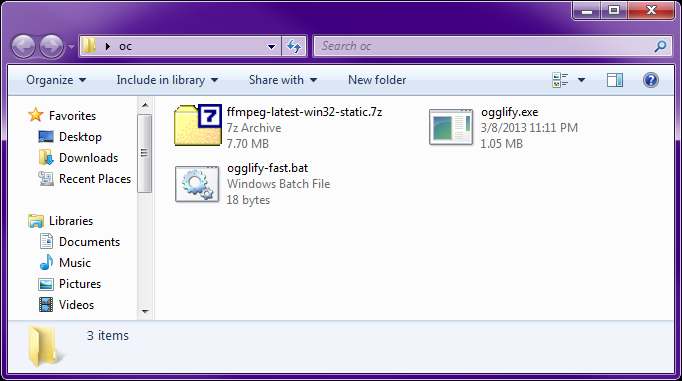
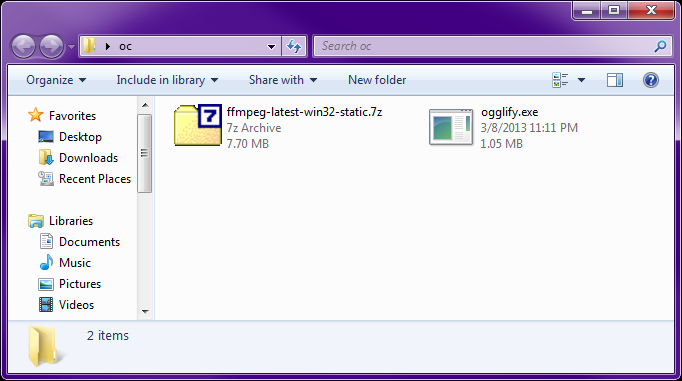
guide-update

Changed region(s): [[0.2463, 0.4331, 0.4927, 0.5486], [0.1232, 0.8661, 0.154, 0.895]]

diff --git a/index.html b/index.html
@@ -3,7 +3,7 @@
 <head>
 	<meta charset="UTF-8" />
 	<meta name="description" content="Youtube, Vimeo, Soundcloud, and Sounds playback" />
-	<meta name="keywords" content="4chan,sound,sounds,media,player,youtube,soundcloud,vimeo,embed,embedding,stego,steganography,4cs,dnsev,userscript,greasemonkey,tampermonkey,firefox,chrome" />
+	<meta name="keywords" content="4chan,sound,sounds,media,player,youtube,soundcloud,vimeo,embed,embedding,stego,steganography,4cs,dnsev,userscript,greasemonkey,tampermonkey,firefox,chrome,sound player,4chan sound player,media player,4chan media player" />
 	<meta name="author" content="dnsev" />
 	<link rel="shortcut icon" href="favicon.gif" />
 	<link rel="stylesheet" href="style.css" />
@@ -528,89 +528,102 @@
 	<div class="Content ContentWidth" id="content_oc">
 		<div class="ContentHeader"><span class="ContentHeaderTitle">Original Content</span>:</div>
 		<div class="ContentBody">
-			<p>So you want to create original content?<br />
-			Use these steps and images as a guide:</p>
+			<p>So you want to create original content? Here's a guide:</p>
+			<p class="AsteriskMessage"><i>Be sure to click the </i><a class="InternalLink" href="#oc?activate=image_1">image</a><i> links that appear on the right if you get lost</i></p>
 
 			<div class="ContentHeader" multi_id="sounds_image"><span class="HoverShowControl"><span class="ContentHeaderTitle">Creating the sounds-image</span>:<span class="HoverShow"> <a class="InternalLink" href="#.?scroll=sounds_image">Hardlink</a></span></span></div>
 			<div class="ContentBody">
 			<ol class="SpacedList">
-				<li class="InstructionsImageLinkContainer">
-					<a class="ImageLink InstructionsImageLink" href="image_oc_guide0.png" href_update="#oc?activate=image_1" target="_blank" multi_id="image_1">image</a><div class="ImageDescription">
-						<ul>
-							<li>All 3 files downloaded into the folder</li>
-							<li>ffmpeg.exe hasn't been extracted yet</li>
+				<li multi_id="step_1">
+					<div class="GuideLink InstructionsImageLinkContainer" href="#.?activate=image_1">
+						<a class="ImageLink InstructionsImageLink" href="image_oc_guide0.png" href_update="#oc?activate=image_1" target="_blank" multi_id="image_1">image</a><div class="ImageDescription">
+							<ul>
+								<li>All 3 files downloaded into the folder</li>
+								<li>ffmpeg.exe hasn't been extracted yet</li>
+							</ul>
+						</div>
+
+						<p>Download the <a class="InternalLink" href="#ogglify">ogglify</a> files into a new folder:</p>
+						<ul class="ContentInstructionListUnordered ContentInstructionListSmall">
+							<li><a class="Link" href="https://github.com/dnsev/4cs/raw/master/ogglify/ogglify.exe">ogglify.exe</a></li>
+							<li><a class="Link" href="http://ffmpeg.zeranoe.com/builds/win32/static/ffmpeg-latest-win32-static.7z">ffmpeg.exe</a><span class="DownloadLinkExtension"> from <i>/bin/ffmpeg.exe</i></span></li>
 						</ul>
+
+						<div class="InstructionsImageLinkClear"></div>
 					</div>
-
-					Download the <a class="InternalLink" href="#ogglify">ogglify</a> files into a new folder:
-					<ul class="ContentInstructionListUnordered ContentInstructionListSmall">
-						<li><a href="https://github.com/dnsev/4cs/raw/master/ogglify/ogglify.exe">ogglify.exe</a></li>
-						<li><a href="https://github.com/dnsev/4cs/raw/master/ogglify/ogglify-fast.bat">ogglify-fast.bat</a></li>
-						<li><a href="http://ffmpeg.zeranoe.com/builds/win32/static/ffmpeg-latest-win32-static.7z">ffmpeg.exe</a><span class="DownloadLinkExtension"> from <i>/bin/ffmpeg.exe</i></span></li>
-					</ul>
-
-					<div class="InstructionsImageLinkClear"></div>
 				</li>
-				<li class="InstructionsImageLinkContainer">
-					<a class="ImageLink InstructionsImageLink" href="image_oc_guide1.png" href_update="#oc?activate=image_2" target="_blank" multi_id="image_2">image</a><div class="ImageDescription">
-						<ul>
-							<li>ffmpeg.exe has now been extracted</li>
-							<li>If you don't have a program to extract from a .7z, visit <a href="http://www.7-zip.org/" target="_blank">7-zip.org</a></li>
-						</ul>
+				<li multi_id="step_2">
+					<div class="GuideLink InstructionsImageLinkContainer" href="#.?activate=image_2">
+						<a class="ImageLink InstructionsImageLink" href="image_oc_guide1.png" href_update="#oc?activate=image_2" target="_blank" multi_id="image_2">image</a><div class="ImageDescription">
+							<ul>
+								<li>ffmpeg.exe has now been extracted</li>
+								<li>You can delete the .7z file after you are done</li>
+								<li>If you don't have a program to extract from a .7z, visit <a href="http://www.7-zip.org/" target="_blank">7-zip.org</a></li>
+							</ul>
+						</div>
+
+						<p>Make sure you extract <a class="Link" href="http://ffmpeg.zeranoe.com/builds/win32/static/ffmpeg-latest-win32-static.7z">ffmpeg.exe</a> from the .7z archive into your folder</p>
+
+						<div class="InstructionsImageLinkClear"></div>
 					</div>
-
-					<p>Make sure you extract <a>ffmpeg.exe</a> from the .7z archive into your folder</p>
-
-					<div class="InstructionsImageLinkClear"></div>
 				</li>
-				<li class="InstructionsImageLinkContainer">
-					<a class="ImageLink InstructionsImageLink" href="image_oc_guide2.png" href_update="#oc?activate=image_3" target="_blank" multi_id="image_3">image</a><div class="ImageDescription">
-						<ul>
-							<li>Image file and sound file have been added to the folder</li>
-							<li>Sound files can be in .mp3, .flac, and other file types ffmpeg supports</li>
-						</ul>
+				<li multi_id="step_3">
+					<div class="GuideLink InstructionsImageLinkContainer" href="#.?activate=image_3">
+						<a class="ImageLink InstructionsImageLink" href="image_oc_guide2.png" href_update="#oc?activate=image_3" target="_blank" multi_id="image_3">image</a><div class="ImageDescription">
+							<ul>
+								<li>Image file and sound file have been added to the folder</li>
+								<li>Sound files can be in .mp3, .flac, and other file types ffmpeg supports</li>
+							</ul>
+						</div>
+
+						<p>Put your image and any sound files you want to embed inside the folder</p>
+
+						<div class="InstructionsImageLinkClear"></div>
 					</div>
-
-					<div>Put your image and any sound files you want to embed inside the folder</div>
-
-					<div class="InstructionsImageLinkClear"></div>
 				</li>
-				<li class="InstructionsImageLinkContainer">
-					<a class="ImageLink InstructionsImageLink" href="image_oc_guide3.png" href_update="#oc?activate=image_4" target="_blank" multi_id="image_4">image</a><div class="ImageDescription">
-						<ul>
-							<li>Dragging the image and sound onto <i>ogglify.exe</i></li>
-							<li>If you don't mind not getting the best sound quality, you can drag them onto <i>ogglify-fast.bat</i> instead</li>
-							<li>Also, the file name of your sound files will be used as the sound tag</li>
-						</ul>
+				<li multi_id="step_4">
+					<div class="GuideLink InstructionsImageLinkContainer" href="#.?activate=image_4">
+						<a class="ImageLink InstructionsImageLink" href="image_oc_guide3.png" href_update="#oc?activate=image_4" target="_blank" multi_id="image_4">image</a><div class="ImageDescription">
+							<ul>
+								<li>Dragging the image and sound onto <i>ogglify.exe</i></li>
+								<li>If you don't mind not getting the best sound quality, you can drag them onto <i>ogglify-fast.bat</i> instead</li>
+								<li>Also, the file name of your sound files will be used as the sound tag</li>
+							</ul>
+						</div>
+
+						<p>Select the image and sound file(s) and drag them onto <a class="Link" href="https://github.com/dnsev/4cs/raw/master/ogglify/ogglify.exe">ogglify.exe</a></p>
+
+						<div class="InstructionsImageLinkClear"></div>
 					</div>
-
-					<p>Select the image and sound file(s) and drag them onto <a class="InternalLink" href="#ogglify?scroll=setup">ogglify.exe</a></p>
-
-					<div class="InstructionsImageLinkClear"></div>
 				</li>
-				<li class="InstructionsImageLinkContainer">
-					<a class="ImageLink InstructionsImageLink" href="image_oc_guide4.png" href_update="#oc?activate=image_5" target="_blank" multi_id="image_5">image</a><div class="ImageDescription">
-						<ul>
-							<li>The command prompt shown working its magic</li>
-							<li>Typically takes a few seconds based on how big your sound is</li>
-						</ul>
+				<li multi_id="step_5">
+					<div class="GuideLink InstructionsImageLinkContainer" href="#.?activate=image_5">
+						<a class="ImageLink InstructionsImageLink" href="image_oc_guide4.png" href_update="#oc?activate=image_5" target="_blank" multi_id="image_5">image</a><div class="ImageDescription">
+							<ul>
+								<li>The command prompt shown working its magic</li>
+								<li>Typically takes a few seconds based on how big your sound is</li>
+								<li>The window should automatically open, run, and close; <b>there is no GUI</b></li>
+							</ul>
+						</div>
+
+						<p>A command prompt window should appear; sit back and let the magic happen</p>
+
+						<div class="InstructionsImageLinkClear"></div>
 					</div>
-
-					A command prompt window should appear; sit back and let the magic happen
-
-					<div class="InstructionsImageLinkClear"></div>
 				</li>
-				<li class="InstructionsImageLinkContainer">
-					<a class="ImageLink InstructionsImageLink" href="image_oc_guide5.png" href_update="#oc?activate=image_6" target="_blank" multi_id="image_6">image</a><div class="ImageDescription">
-						<ul>
-							<li>A new file has been created</li>
-							<li>Note how it is much larger than the original</li>
-						</ul>
+				<li multi_id="step_6">
+					<div class="GuideLink InstructionsImageLinkContainer" href="#.?activate=image_6">
+						<a class="ImageLink InstructionsImageLink" href="image_oc_guide5.png" href_update="#oc?activate=image_6" target="_blank" multi_id="image_6">image</a><div class="ImageDescription">
+							<ul>
+								<li>A new file has been created</li>
+								<li>Note how it is much larger than the original</li>
+							</ul>
+						</div>
+
+						<p>After the command prompt closes, you should have a new file named <a><i>something</i>-embed<i>.ext</i></a></p>
+
+						<div class="InstructionsImageLinkClear"></div>
 					</div>
-
-					After the command prompt closes, you should have a new file named "<i>something</i>-embed<i>.png</i>"
-
-					<div class="InstructionsImageLinkClear"></div>
 				</li>
 			</ol>
 			</div>
@@ -618,48 +631,92 @@
 			<div class="ContentHeader" multi_id="posting"><span class="HoverShowControl"><span class="ContentHeaderTitle">Posting your image</span>:<span class="HoverShow"> <a class="InternalLink" href="#.?scroll=posting">Hardlink</a></span></span></div>
 			<div class="ContentBody">
 			<ol class="SpacedList" start="7">
-				<li class="InstructionsImageLinkContainer">
-					<a class="ImageLink InstructionsImageLink" href="image_oc_guide6.png" href_update="#oc?activate=image_7" target="_blank" multi_id="image_7">image</a><div class="ImageDescription">
-						<ul>
-							<li>The quick reply box (using 4chan x) shown with the uploader panel open</li>
-							<li>If you haven't disabled it in the settings, the uploader panel should automatically open</li>
-							<li>However, it shouldn't matter if you use it or not</li>
-						</ul>
+				<li multi_id="step_7">
+					<div class="GuideLink InstructionsImageLinkContainer" href="#.?activate=image_7">
+						<a class="ImageLink InstructionsImageLink" href="image_oc_guide6.png" href_update="#oc?activate=image_7" target="_blank" multi_id="image_7">image</a><div class="ImageDescription">
+							<ul>
+								<li>The quick reply box (using 4chan x) shown with the uploader panel open</li>
+								<li>If you haven't disabled it in the settings, the uploader panel should automatically open</li>
+								<li>However, it shouldn't matter if you use it or not</li>
+							</ul>
+						</div>
+
+						<p>Reply as you normally would to any thread, including your new image of course</p>
+
+						<div class="InstructionsImageLinkClear"></div>
 					</div>
-
-					<p>Reply as you normally would to any thread, including your new image of course</p>
-
-					<div class="InstructionsImageLinkClear"></div>
 				</li>
-				<li class="InstructionsImageLinkContainer">
-					<a class="ImageLink InstructionsImageLink" href="image_oc_guide7.png" href_update="#oc?activate=image_8" target="_blank" multi_id="image_8">image</a><div class="ImageDescription">
-						<ul>
-							<li>The resulting image shown uploaded in a post; the filename has been preserved</li>
-							<li>The sounds link has been clicked and the sound is listed in the post</li>
-							<li>Note: if you change any of the fields in the uploader panel, your image will be re-encoded; if you're using Firefox, you may lose your filename</li>
-						</ul>
+				<li multi_id="step_8">
+					<div class="GuideLink InstructionsImageLinkContainer" href="#.?activate=image_8">
+						<a class="ImageLink InstructionsImageLink" href="image_oc_guide7.png" href_update="#oc?activate=image_8" target="_blank" multi_id="image_8">image</a><div class="ImageDescription">
+							<ul>
+								<li>The resulting image shown uploaded in a post; the filename has been preserved</li>
+								<li>The sounds link has been clicked and the sound is listed in the post</li>
+								<li>Note: if you change any of the fields in the uploader panel, your image will be re-encoded; if you're using Firefox, you may lose your filename</li>
+							</ul>
+						</div>
+
+						<p>Your image should be uploaded with the filename preserved</p>
+
+						<div class="InstructionsImageLinkClear"></div>
 					</div>
-
-					<p>Your image should be uploaded with the filename preserved</p>
-
-					<div class="InstructionsImageLinkClear"></div>
 				</li>
-				<li class="InstructionsImageLinkContainer">
-					<a class="ImageLink InstructionsImageLink" href="image_oc_guide8.png" href_update="#oc?activate=image_9" target="_blank" multi_id="image_9">image</a><div class="ImageDescription">
-						<ul>
-							<li>The sound shown being played in the player</li>
-						</ul>
+				<li multi_id="step_9">
+					<div class="GuideLink InstructionsImageLinkContainer" href="#.?activate=image_9">
+						<a class="ImageLink InstructionsImageLink" href="image_oc_guide8.png" href_update="#oc?activate=image_9" target="_blank" multi_id="image_9">image</a><div class="ImageDescription">
+							<ul>
+								<li>The sound shown being played in the player</li>
+							</ul>
+						</div>
+
+						<p>You can now load your sound-image in the player</p>
+
+						<div class="InstructionsImageLinkClear"></div>
 					</div>
-
-					<p>You can now load your sound-image in the player</p>
-
-					<div class="InstructionsImageLinkClear"></div>
 				</li>
 			</ol>
 			</div>
 
 			<div class="ContentHeader" multi_id="congratulations"><span class="ContentHeaderTitle">Congratulations</span>: You have posted original content!</div>
+			<div class="ContentBodyStub"></div>
+
+			<span class="PageVariableDisplayInv" pvar="tips">
+			<div class="ContentHeader" multi_id="tips"><span class="HoverShowControl"><span class="ContentHeaderTitle">Tips</span>:<span class="HoverShow"> <a class="InternalLink" href="#.?tips&scroll=tips">Hardlink</a></span></span></div>
+			<div class="ContentBody">
+				<p>For anybody who cares enough to view this section, here are some tips for using these applications:</p>
+
+				<ol class="SpacedList">
+					<li multi_id="tip_1">
+						<p>If you want your file to encode faster and don't need the best possible audio quality in your image:</p>
+
+						<ol class="ContentInstructionList ContentInstructionListSmall">
+							<li>Download <a href="https://github.com/dnsev/4cs/raw/master/ogglify/ogglify-fast.bat">ogglify-fast.bat</a></li>
+							<li>Put it in your folder with <a class="Link" href="https://github.com/dnsev/4cs/raw/master/ogglify/ogglify.exe">ogglify.exe</a> <span class="DownloadLinkExtension"><i>(keep ogglify.exe!)</i></span></li>
+							<li>Use <a href="https://github.com/dnsev/4cs/raw/master/ogglify/ogglify-fast.bat">ogglify-fast.bat</a> in place of <a class="Link" href="https://github.com/dnsev/4cs/raw/master/ogglify/ogglify.exe">ogglify.exe</a> in <a class="InternalLink" href="#.?tips&scroll=step_4">step 4</a></li>
+						</ol>
+					</li>
+					<li multi_id="tip_2">
+						<p>The filename of your audio files will be used as the [<a>tag</a>] for playback; rename your files accordingly if desired</p>
+					</li>
+					<li multi_id="tip_3">
+						<p>If you want to test your image before you upload, you can drag the output file from <a class="InternalLink" href="#.?tips&scroll=step_6">step 6</a> onto an open Media Player in your browser</p>
+					</li>
+					<li multi_id="tip_4">
+						<p>If you want a different filename, be sure to rename your file from <a class="InternalLink" href="#.?tips&scroll=step_6">step 6</a> to something different</p>
+					</li>
+				</ol>
+			</div>
+			</span>
+
 		</div>
+
+		<div class="ExtrasContainerPre PageVariableDisplay" pvar="tips"></div>
+		<div class="ExtrasContainer PageVariableDisplay" pvar="tips">
+			<div class="Extra">
+				<a class="InternalLink" href="#.?tips">Usage Tips</a>
+			</div>
+		</div>
+
 	</div>
 </div>
 

diff --git a/script.js b/script.js
@@ -390,7 +390,7 @@ function image_preview(obj) {
 			// Change URL
 			window_hash.goto_page(
 				event.data.href,
-				remove_vars(window_hash.vars, ["activate"])
+				remove_vars(window_hash.vars, ["activate", "scroll"])
 			);
 			return false;
 		}
@@ -640,6 +640,13 @@ $(document).ready(function () {
 		}
 		return true;
 	});
+	$(".Link").on("click", {}, function (event) {
+		if (event.which == 1) {
+			event.stopPropagation();
+			return true;
+		}
+		return true;
+	});
 	$(".Hardlink").on("click", {}, function (event) {
 		if (event.which == 1) {
 			var ex = {};
@@ -693,6 +700,18 @@ $(document).ready(function () {
 	$(".AudioTestLink").on("click", {}, function (event) {
 		if (event.which == 1) {
 			audio_control_event($(this), event);
+			return false;
+		}
+		return true;
+	});
+	$(".GuideLink").on("click", {}, function (event) {
+		if (event.which == 1 && $(this).attr("href")[0] == "#") {
+			var href = $(this).attr("href").substr(1).split("?");
+			window_hash.goto_page(
+				window_hash.modify_href(href[0]),
+				maintain_vars(window_hash.vars, ["all","dev","help"]),
+				(href[1] ? window_hash.parse_vars(href[1]) : undefined)
+			);
 			return false;
 		}
 		return true;

diff --git a/style.css b/style.css
@@ -550,3 +550,10 @@ a.InstallLink:active {
 .SpacedList > li + li{
 	margin-top: 0.6em;
 }
+
+.Link {
+}
+.GuideLink {
+	display: block;
+	cursor: pointer;
+}
